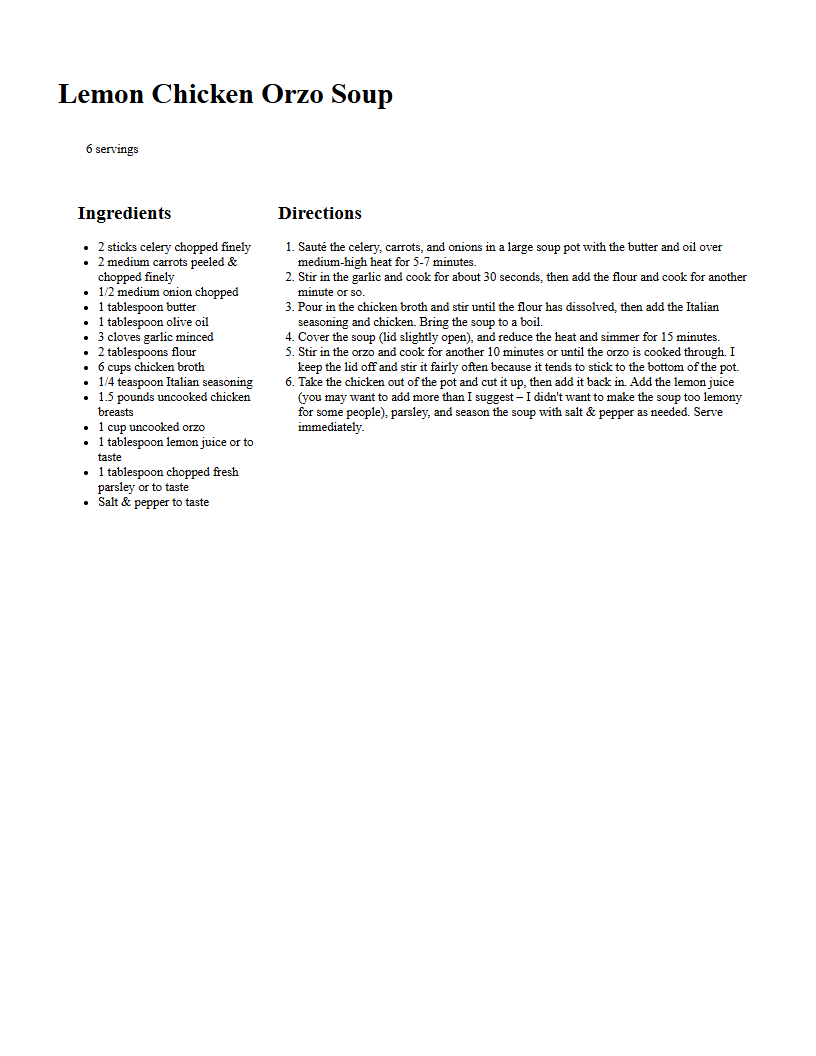
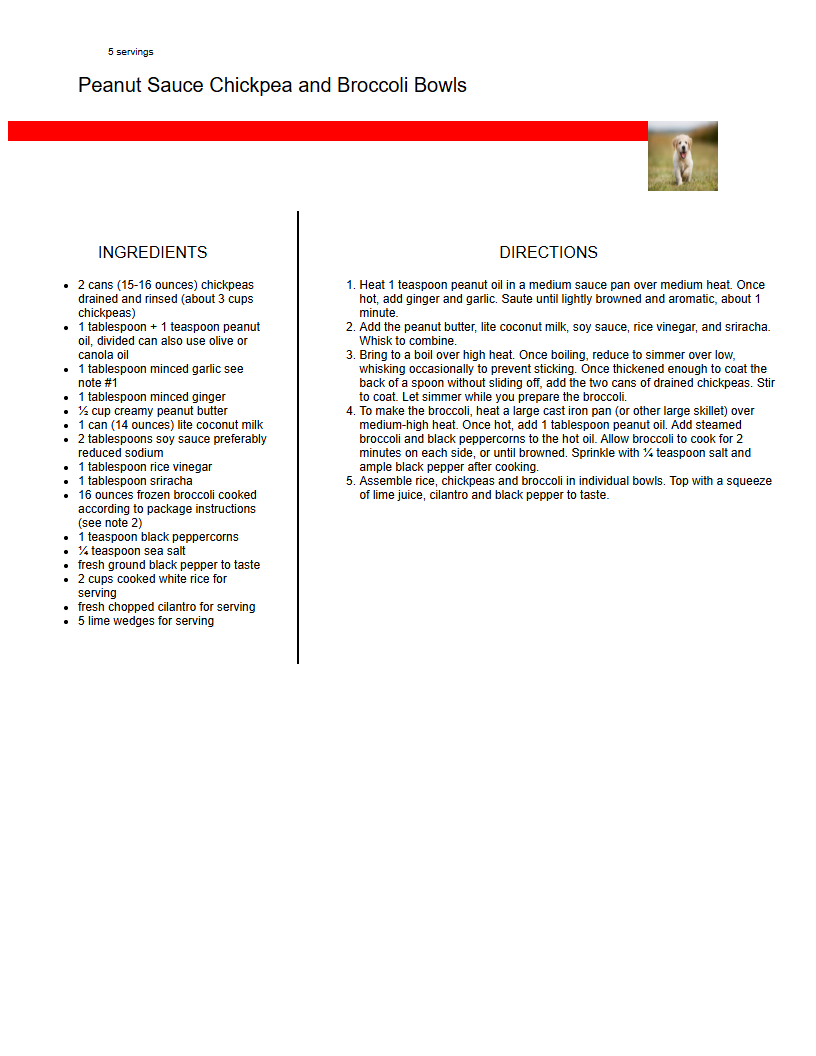
added dockerfile for deployment

Changed region(s): [[0.0919, 0.1875, 0.9498, 0.5938], [0.0, 0.0312, 0.8885, 0.1875]]

diff --git a/server.js b/server.js
@@ -3,7 +3,7 @@ const cors = require('cors');
 const { spawn } = require('child_process');
 const puppeteer = require('puppeteer');
 const path = require('path');
-const port = 3000;
+const port = process.env.PORT || 3000;;
 
 
 const app = express();
@@ -72,86 +72,7 @@ app.post('/upload', function(req, res) {
                 throw new Error('Empty output from Python script');
             }
             const recipeData = JSON.parse(pythonOutput.trim());
-        //     let customHtml = `
-        //     <body>
-        //     `
-
-        //     // creating custom HTML based on checked inputs
-        //     if (req.body.recipeInfo.includes('title')){
-        //         customHtml = customHtml + `\n<h1>${recipeData.title}</h1>`;
-        //     }
-
-        //     if (req.body.recipeInfo.includes('servings')){
-        //         customHtml = customHtml + `\n<span>${recipeData.servings}</span>`;
-        //     }
-
-        //     if (req.body.recipeInfo.includes('author')){
-        //         customHtml = customHtml + `\n<span>Recipe by: ${recipeData.author}</span>`;
-        //     }
-
-        //     if (req.body.recipeInfo.includes('link')){
-        //         customHtml = customHtml + `\n<span><a href=${recipeData.link}>See More</a></span>`;
-        //     }
-
-        //     if (req.body.recipeInfo.includes('prep-time')){
-        //         customHtml = customHtml + `\n<span>Prep Time: ${recipeData.prep_time}</span>`;
-        //     }
-
-        //     if (req.body.recipeInfo.includes('cook-time')){
-        //         customHtml = customHtml + `\n<span>Cook Time: ${recipeData.cook_time}</span>`;
-        //     }
-
-        //     if (req.body.recipeInfo.includes('total-time')){
-        //         customHtml = customHtml + `\n<span>Total Time: ${recipeData.total_time}</span>`;
-        //     }
-
-        //     if (req.body.recipeInfo.includes('ingredients')){
-        //         customHtml = customHtml + `
-        //         <div class="ingredients">
-        //             <h2>Ingredients</h2>
-        //                 <ul>
-        //                     ${recipeData.ingredients.map(ingredient => `<li>${ingredient}</li>`).join('')}
-        //                 </ul>
-        //         </div>`
-        //     }
-
-        //     if (req.body.recipeInfo.includes('directions')){
-        //         customHtml = customHtml + `
-        //         <div class="ingredients">
-        //             <h2>Directions</h2>
-        //                 <ol>
-        //                     ${recipeData.directions.map(direction => `<li>${direction}</li>`).join('')}
-        //                 </ol>
-        //         </div>`
-        //     }
-        //     customHtml = customHtml + '\n</body>';
-
-            // customHtml = localStorage.getItem('recipe-html');
-
-            // Custom HTML content for the PDF
-            // const customHtml = `
-            //     <body>
-            //         <header class="flex">  
-            //         </header>
-            //         <h1>${recipeData.title}</h1>
-            //         <span>${recipeData.servings}</span>          
-            //         <div class="flex main-recipe">
-            //             <div class="ingredients">
-            //                 <h2>Ingredients</h2>
-            //                 <ul>
-            //                     ${recipeData.ingredients.map(ingredient => `<li>• ${ingredient}</li>`).join('')}
-            //                 </ul>
-            //             </div>
-            //             <div class="directions">
-            //             <h2>Directions</h2>
-            //             <ol>
-            //                 ${recipeData.directions.map(direction => `<li>${direction}</li>`).join('')}
-            //             </ol>
-                        
-            //         </div>
-            //         </div>
-            //     </body>
-            // `;
+      
 
             
             res.json({
@@ -209,6 +130,7 @@ app.post('/generate-pdf', async function(req, res) {
             let customHtml = req.body.recipeHtml;
             await page.setContent(customHtml, { waitUntil: 'networkidle0' });
             await page.addStyleTag({ content: cssContent });
+            await page.waitForSelector('img.category-image');
 
 
             // Calculate Letter format dimensions (8.5" x 11") at 96 DPI

diff --git a/recipe_template_css/moms-format.css b/recipe_template_css/moms-format.css
@@ -8,8 +8,7 @@
 
 /*style the page overall*/
 body{
-    background-image: url('https://lh3.googleusercontent.com/d/1zMcC7u3VWXSnQ7kY_Ymqb8uSkuu98O-m=w816-h1056?authuser=0') !important;
-    background-position: contain;
+    padding-top: 20px;
 }
 
 .pdf-flex-column{
@@ -24,7 +23,24 @@ h1{
     color: black;
     margin-left: 70px;
     padding-bottom: 10px;
+    width: 80%;
+
 }
+
+.flex-row{
+    display: flex;
+}
+
+
+.colored-block{
+    background-color: red;
+    height: 20px;
+    width: 80%;
+}
+#header-underline{
+    width: 80%;
+}
+
 
 /*style the recipe characteristics section*/
 header{
@@ -76,8 +92,9 @@ h2{
     font-family: "Poppins", sans-serif;
     font-weight: 400;
     font-size: 16px;
-    margin-left: 40px;
     width: 100%;
+    text-align: center;
+    text-transform: uppercase;
 }
 
 /*style the subheadings*/
@@ -89,6 +106,7 @@ h3{
 #pdf-main-recipe{
     display: flex;
     margin-top: 20px;
+    height: 75%;
 }
 
 
@@ -97,6 +115,8 @@ h3{
     flex:1;
     padding:20px;
     padding-left: 30px;
+    padding-right: 30px;
+    border-right: 2px solid black;
 
 }
 

diff --git a/format.js b/format.js
@@ -56,7 +56,12 @@ const form = document.querySelector('form');
             const format = formData.get('recipe-format');
             const category = formData.get('recipe-category');
 
-
+            console.log(format);
+            if (format=="moms"){
+                newrecipeHTML = addMomStyle(localStorage.getItem('recipe-html'));
+            } else {
+                newrecipeHTML=localStorage.getItem('recipe-html');
+            }
 
             try {
                 const response = await fetch('http://127.0.0.1:3000/generate-pdf', {
@@ -67,8 +72,7 @@ const form = document.querySelector('form');
                     body: JSON.stringify({
                     category: category,
                     format: format,
-                    recipeHtml: addCategory(category)
-                    // recipeHtml: localStorage.getItem('recipe-html')
+                    recipeHtml: newrecipeHTML
                 })
                 });
                 const result = await response.json();

diff --git a/populateHTML.js b/populateHTML.js
@@ -150,3 +150,11 @@ function createCustomHTML(selectedInfo, recipeData, subheadingData){
     return customHtml;
 }
 
+function addMomStyle(storedHTML){
+    separate_HTML = storedHTML.split("</header>")
+    separate_HTML[0] = separate_HTML[0] + `</header><div class="flex-row"><div class="colored-block" id="header-underline"></div><img src="https://t4.ftcdn.net/jpg/02/90/84/47/360_F_290844781_V4hoIL3E291xvY5nEL7NCaWIoCIQxHfI.jpg" class="category-image" width="70px" height="70px"></div> `;
+    customHTML = separate_HTML[0] + separate_HTML[1];
+    console.log(customHTML);
+    return customHTML;
+}
+

diff --git a/format.html b/format.html
@@ -83,6 +83,7 @@
         <script src="header.js"></script>
         <script src="addCategory.js"></script>
         <script src="addLoading.js"></script>
+        <script src="populateHTML.js"></script>
         <script src="format.js"></script>
 
 </body>
